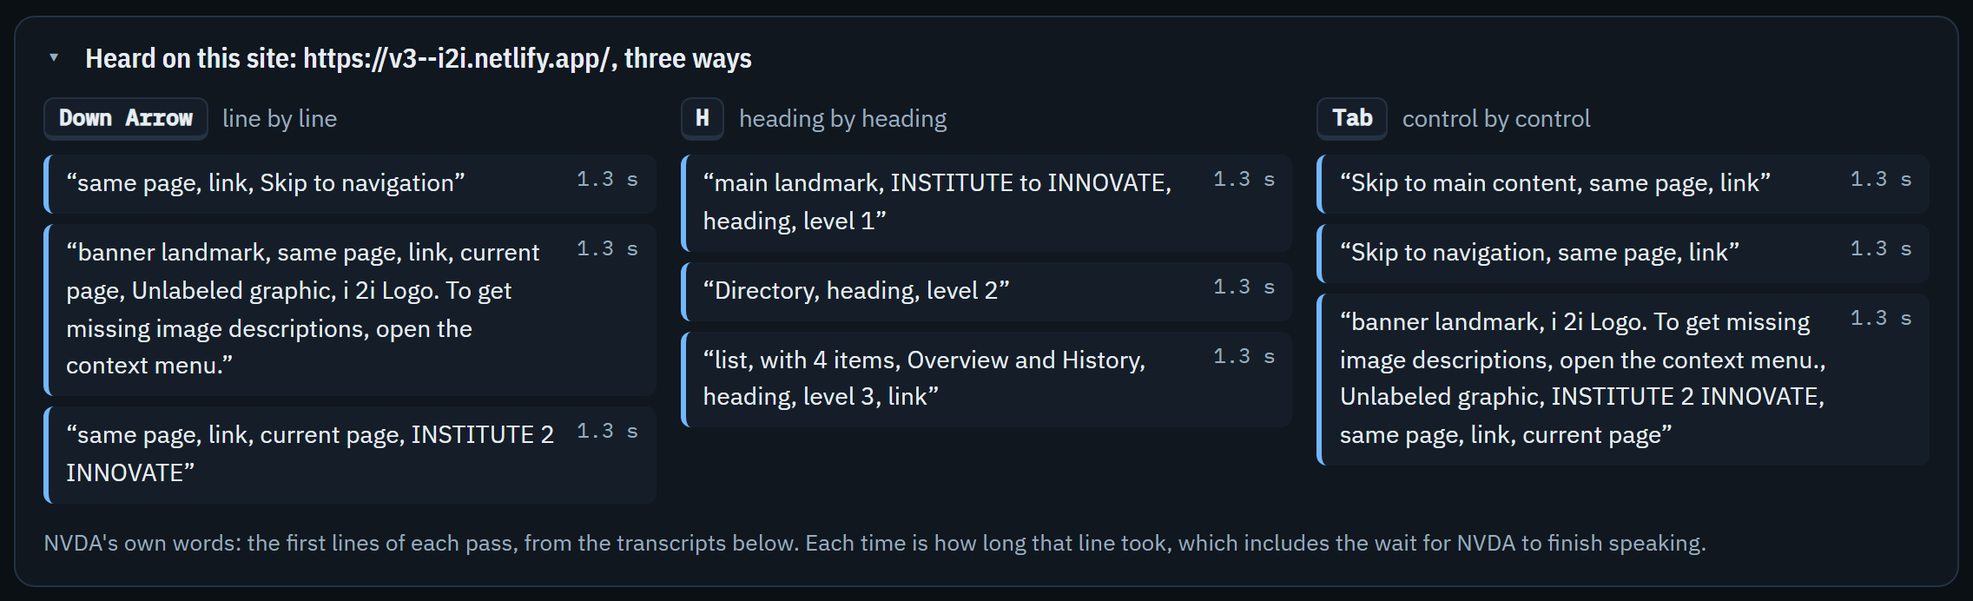
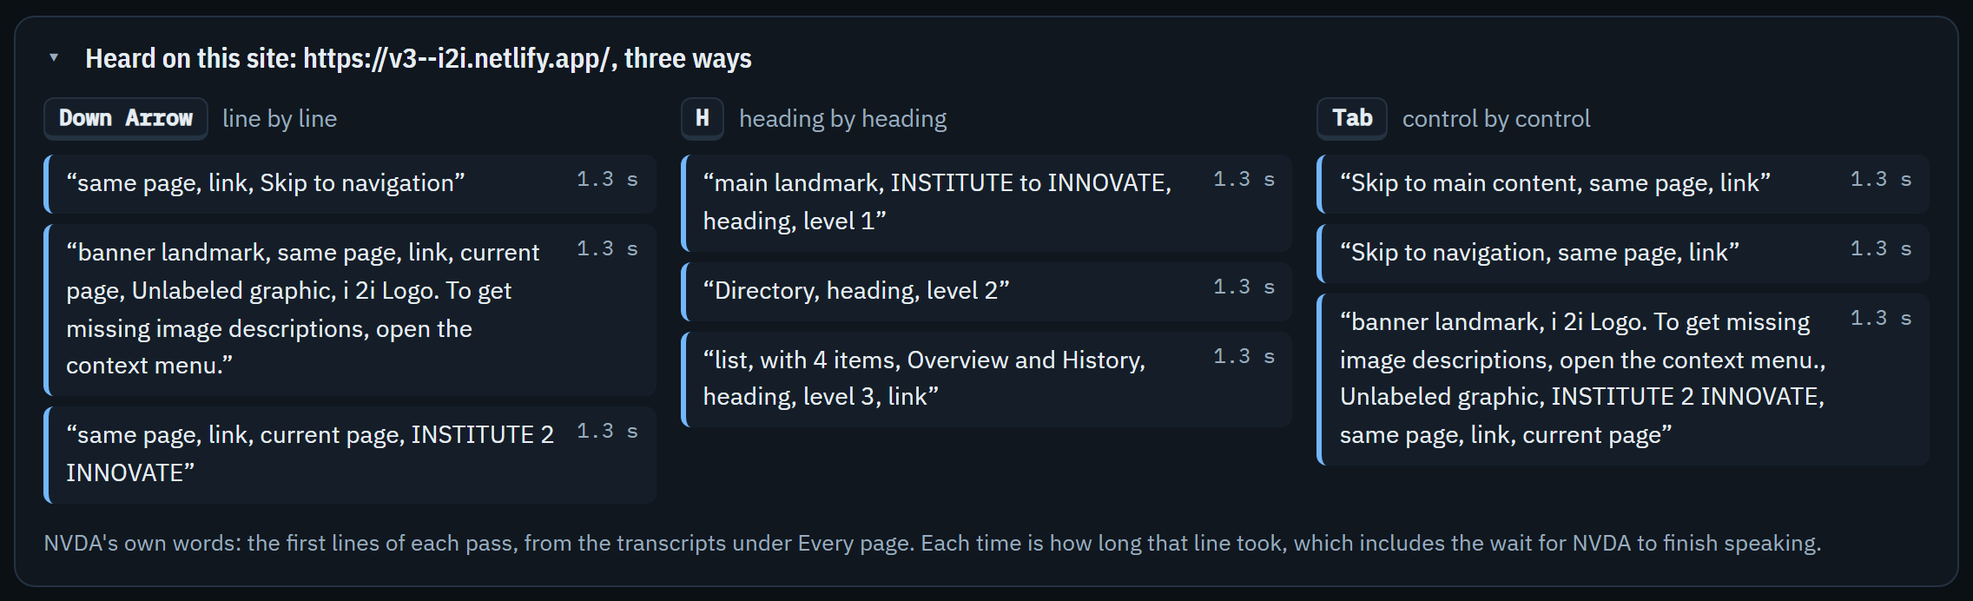
Say where the sample's transcripts are now, and tighten the README's and the spec's words on the verdict and the transcripts

Changed region(s): [[0.375, 0.8801, 0.9375, 0.9408]]

diff --git a/src/share/text.ts b/src/share/text.ts
@@ -132,9 +132,13 @@ export const HOW_TEXT = {
     headings: { key: "H", words: "heading by heading" },
     tab: { key: "Tab", words: "control by control" },
   } satisfies Record<PassName, { key: string; words: string }>,
-  /** Under the sample: what its words are, and what each time is. */
+  /**
+   * Under the sample: what its words are, and what each time is. It names where the transcripts
+   * are by their section's name, not by "above" or "below", which a change in the sections' order
+   * would make false again.
+   */
   heardNote:
-    "NVDA's own words: the first lines of each pass, from the transcripts below. Each time is how long that line took, which includes the wait for NVDA to finish speaking.",
+    "NVDA's own words: the first lines of each pass, from the transcripts under Every page. Each time is how long that line took, which includes the wait for NVDA to finish speaking.",
   /** Said in place of the sample, when the home page has no transcripts to take one from. */
   noSample: "Not recorded: no sample of the home page's lines is available.",
 };

diff --git a/test/share-text.test.ts b/test/share-text.test.ts
@@ -357,6 +357,18 @@ describe("the fixed text", () => {
     expect(PAGES_TEXT.fullTranscript).toBe("The full transcript");
   });
 
+  it("names where the sample's transcripts are by their section, never by above or below", () => {
+    const { HOW_TEXT, PAGES_TEXT } = text;
+
+    // The sample is in the details, which come after the cards, and each page's transcripts are in
+    // its card, under Every page. "Below" was false once the page put the cards first, and the
+    // Word copy has the same order; the section's name stays true wherever the sections go.
+    expect(HOW_TEXT.heardNote).toBe(
+      `NVDA's own words: the first lines of each pass, from the transcripts under ${PAGES_TEXT.title}. Each time is how long that line took, which includes the wait for NVDA to finish speaking.`,
+    );
+    expect(HOW_TEXT.heardNote).not.toMatch(/\b(?:above|below)\b/i);
+  });
+
   it("never names a library as how voicecap began", () => {
     expect(everyString().join("\n")).not.toMatch(/guidepup/i);
   });

diff --git a/docs/superpowers/specs/2026-09-30-shareable-report-design.md b/docs/superpowers/specs/2026-09-30-shareable-report-design.md
@@ -8,7 +8,7 @@ The owner's request: reports detailed enough for a skeptical manager, or a state
 - that each NVDA (or, later, VoiceOver) run really happened as recorded;
 - what the honest results were, failures and interruptions included, with nothing softened or left out.
 
-voicecap is a human review, sped up. The person running it listens as NVDA reads each page, reads the transcripts, and fixes what they find. What voicecap does on its own is press the screen reader's keys, the way a person would, and move from page to page along the sitemap or a list of pages. Working from the list also makes the review more thorough than clicking through a site by hand: every page on the list is accounted for, and none is missed or done twice. So one person can spot-check a large site, zero in on the pages that need attention, or go through a whole small site.
+voicecap is a human review, sped up. The person running it hears NVDA at work, reads the transcripts, and fixes what they find. What voicecap does on its own is press the screen reader's keys, the way a person would, and move from page to page along the sitemap or a list of pages. Working from the list also makes the review more thorough than clicking through a site by hand: every page on the list is accounted for, and none is missed or done twice. So one person can spot-check a large site, zero in on the pages that need attention, or go through a whole small site.
 
 The owner's manager wants two things: an automated check, such as axe or Lighthouse, and a person's listen-through with a real screen reader. voicecap is the listen-through, and the page has to make that plain: every word in it is what NVDA (or VoiceOver) said, and every decision in it is a person's. It must never read as if no person was involved.
 
@@ -37,13 +37,13 @@ The owner asked on 2026-10-07 for the page to put what matters most to a manager
 1. **The top**, as before: the site's canonical name as the headline, "Tested <date and time>", the plain line "How its pages read aloud with NVDA, a free screen reader, tested on <date>.", the line "voicecap took NVDA through every page, pressing its keys the way a person would. Every word shown here is what NVDA said.", then "As of", "Prepared by", "Made with voicecap", the site's address, small, and the two buttons.
 
 2. **At a glance**, for a non-technical manager who reads nothing else. All of it is computed from the records, in plain words, in this order:
-   - **The verdict:** one large line, said in words and an icon, with a color that only repeats them. One rule words it, `verdictOf` (`src/share/verdict.ts`), for the page, its Word copy, and the website's card, from the four counts of the result (`ShareModel.result`: the pages in scope, how many NVDA read, the problems, and the pages they're on). It has three states:
-     - "Nothing needs attention" (✓, green) when no card is left under "What needs attention" and NVDA read every page in scope.
-     - "<n> problem needs attention, on <m> pages" ("problems need" for more than one, "on 1 page" for one; ⚠, amber) when cards are left. It counts every card, as the section, the Word copy, and the website's card do (D1).
-     - Red, with ⚠, when NVDA read fewer pages than are in scope, whether it couldn't read a page or skipped it (D2: the website's card has gone by this rule since 0.12.3). It counts the cards in the same words, and with no card left (voicecap skipped the pages it didn't read, which are on no card) it says "Nothing needs attention on the pages read".
+   - **The verdict:** one large line, said in words and an icon, with a color that only repeats them. One rule words it, `verdictOf` (`src/share/verdict.ts`), for the page, its Word copy, and the website's card, from the four counts of the result (`ShareModel.result`: the pages in scope, how many NVDA read, the problems, and the pages they're on). It has three states, and goes by the first that is true, in this order:
+     - Red, with ⚠, when NVDA read fewer pages than are in scope, whether it couldn't read a page or skipped it (D2: the website's card has gone by this rule since 0.12.3). A page not read makes it red whatever the cards say. It counts the cards in the same words, and with no card left (voicecap skipped the pages it didn't read, which are on no card) it says "Nothing needs attention on the pages read".
+     - "<n> problem needs attention, on <m> pages" ("problems need" for more than one, "on 1 page" for one; ⚠, amber) when NVDA read every page in scope and cards are left. It counts every card, as the section, the Word copy, and the website's card do (D1).
+     - "Nothing needs attention" (✓, green) when NVDA read every page in scope and no card is left under "What needs attention".
 
      The icon is drawn by the page's style, with no alternative text (`content: "✓" / ""`), so a screen reader hears the words alone: an icon in the markup is no text, and fails axe's contrast check. The Word copy has it as the first character of the line.
-   - **The result in one sentence,** leading with the person's review: who ran it, who heard NVDA, who reviewed, and what review found (see "The human review"). It counts no problems (D1). Before, it counted only the cards that come from flags, and the verdict counts every card, so the two could disagree (on the demo, the sentence said "4 problems need attention, on 1 page", and the verdict "5 problems need attention, on 2 pages"). The verdict is the one count. For a run with no review, the sentence is "NVDA read all 32 pages, run by Christopher Schweda." The owner chose this on 2026-10-07.
+   - **The result in one sentence,** leading with the person's review: who ran it, who heard NVDA, who reviewed, and what review found (see "The human review"). It doesn't count the problems that need attention (D1): the verdict does. Before, it counted only the cards that come from flags, and the verdict counts every card, so the two could disagree (on the demo, the sentence said "4 problems need attention, on 1 page", and the verdict "5 problems need attention, on 2 pages"). The verdict is the one count of them. The sentence still says how many pages have an issue found in review, couldn't be read, or were skipped. For a run with no review, the sentence is "NVDA read all 32 pages, run by Christopher Schweda." The owner chose this on 2026-10-07.
    - **The page ring:** a ring chart of the pages in scope, with their number in its middle. Its three parts add up to the pages in scope:
      - "No problems": read, and on no card;
      - "Need attention": read, and on a card;
@@ -65,7 +65,7 @@ The owner asked on 2026-10-07 for the page to put what matters most to a manager
    - its status, in words, and its review's chips ("Reviewed, no issues", "Checked by <name>, <date>: not an issue", and so on);
    - **Heard first:** the first three lines NVDA said on it, in the read pass, word for word, each in curly quotes, as a list a screen reader counts. A page with no transcripts, or whose read transcript can't be read here, has none;
    - its pass counts and its time, and its spoken-line strip;
-   - **the full transcript,** folded, at the card's end: the run its transcripts are from, then the read, headings, and Tab transcripts, word for word, each with its line count, size, and fingerprint. The fingerprint check covers them here (see "Checking the fingerprints in the page"). Every card's fold line reads alike on screen ("The full transcript: read, headings, and Tab transcripts"), so each names its page for a screen reader, in hidden words ("The full transcript of /about/: …"), and each transcript's heading does the same. A page whose transcripts can't be read here has its fold, with the line that says so; a page with no transcripts has no fold.
+   - **the full transcript,** folded, at the card's end: the run its transcripts are from, then a transcript for each pass the run recorded (read, headings, and Tab), word for word, each with its line count, size, and fingerprint. The fingerprint check covers them here (see "Checking the fingerprints in the page"). Every card's fold line reads alike on screen ("The full transcript: read, headings, and Tab transcripts"), so each names its page for a screen reader, in hidden words ("The full transcript of /about/: …"), and each transcript's heading does the same. A page whose transcripts can't be read here has its fold, with the line that says so; a page with no transcripts has no fold.
 
    The appendix of transcripts is gone; this is the one place for each page's words. Over 12 pages, the pages with nothing to note fold behind a line, as before, and each keeps its own transcript fold inside it.
 
@@ -123,7 +123,7 @@ The page:
 - says a person heard NVDA only where the statement says so: "Heard live by <name>" for pages read in a session answered "Yes, the whole time", and "<name> heard part of this session" for "Part of the time";
 - has no count of pages heard live. The owner took it out of the page's numbers and its human-review bar on 2026-10-06: a run started without a terminal can't ask, and a count of 0 read as though no one had heard NVDA. The statement stays in each run's evidence, and the page's chips above;
 - leads with what the person did, never with what they haven't done. What's left appears once, as tasks, under "What's still to do";
-- counts the problems once, in the verdict, never in the sentence (D1): the verdict counts every card of "What needs attention". The sentence keeps who ran it, who heard NVDA, who reviewed, and what review found;
+- counts the problems that need attention once, in the verdict, over every card of "What needs attention" (D1); the sentence doesn't count them. It keeps who ran it, who heard NVDA, who reviewed, and what review found, and still says how many pages have an issue found in review, couldn't be read, or were skipped;
 - shows each count out of its total, so nothing looks complete that isn't.
 
 ## What needs attention: a card for each problem
@@ -320,13 +320,13 @@ A walkthrough file lets anyone repeat a run exactly: an auditor checking the res
 These two sections are the page's only prose not computed from the records, and they make no claim about any run's results. The text lives in one module, `src/share/text.ts`, which both renderers use. The owner reviews it before each release.
 
 **How voicecap works:**
-- **The lead:** automated checkers read a page's code and test it against rules. voicecap takes a real screen reader through each page the way a person would, and saves every word it says. It can spot-check a large site, zero in on the pages that need attention, or go through a whole small site. The person running it listens along, then reads the transcripts and fixes what they find. voicecap presses the keys and turns the pages, so the person can give the listening their full attention.
+- **The lead:** automated checkers read a page's code and test it against rules. voicecap takes a real screen reader through each page the way a person would, and saves every word it says. It can spot-check a large site, zero in on the pages that need attention, or go through a whole small site. The person running it reads the transcripts and fixes what they find. voicecap presses the keys and turns the pages, and NVDA speaks very fast as it goes, so the transcripts are where its words are read.
 - **Six steps,** each with an icon:
   1. **Every page on the list:** from the sitemap, or a list of chosen pages (a CSV file). Each page is read once, in full, or listed with the reason it couldn't be. None is missed or done twice, an easy slip when clicking through a site by hand.
   2. **The real screen reader:** NVDA itself, never a simulation, with a fresh browser for every page.
   3. **Three ways through each page:** the keys a person presses to go line by line, heading by heading, and control by control.
   4. **Every word, and a check on every key:** each key press and everything the screen reader said, in order. Before and after every key press, voicecap checks that the page still has the screen. If it doesn't, the step is thrown out and the page tried again.
-  5. **A person listens, reads, and fixes:** the person running voicecap listens as it reads, and says so when the run ends. Then they read the transcripts, record what they found, and fix it. Flags point to moments worth a second listen.
+  5. **A person reads and fixes:** the person running voicecap hears NVDA at work, and says so when the run ends. NVDA speaks very fast during a run, so the transcripts are where its words are read. The person reads them, records what they found, and fixes it. Flags point to moments worth a closer look.
   6. **A sealed record:** every file gets a fingerprint and each run is sealed, so anyone can check that nothing has changed since.
 - **Heard on this site,** which is computed, not fixed: the first three lines of each pass on the site's home page (or the first page in scope), from the transcripts shown, each with its time.
 - **When to run it,** a bold band after the steps: "When to run voicecap: before the site goes live. And again after a major update. Screen reader users hear the deployed site, so that's the one to listen to." Then four stages, with the second marked:
@@ -449,7 +449,7 @@ In the site's folder of the transcripts home:
   - one paragraph of its title, status, flags, and review, and what each pass captured;
   - a "Heard first" list of the lines NVDA said first;
   - the line that names the run its transcripts come from ("From run 2026-10-06_1134", with its date added for a run before the latest);
-  - each transcript, under a heading of its own that carries the page's address ("Read transcript of /about/, 18 lines"), with its fingerprint and its lines in the fixed-width font. The address is in the heading as the page's hidden words have it for a screen reader: every page has a read, a headings, and a Tab transcript, and a reader going by headings would otherwise meet the same three names again and again. Word can't hide words, so there they are in view.
+  - each transcript, under a heading of its own that carries the page's address ("Read transcript of /about/, 18 lines"), with its fingerprint and its lines in the fixed-width font. The address is in the heading as the page's hidden words have it for a screen reader: a page has a transcript for each pass the run recorded (read, headings, and Tab), and a reader going by headings would otherwise meet the same names again and again. Word can't hide words, so there they are in view.
 - **Its first lines:** the title, then the site's canonical name, then the date and time it was tested and when the copy was made, so a reader never meets an address first (the owner asked on 2026-10-03, and again on 2026-10-04 for canonical names; see "Canonical names").
 - **Nothing is folded:** every section is there in full.
 - **The steps, problems, and story:** How voicecap works has its steps as a numbered table and its sample as a three-column table. Each problem is a table, with its record in the fixed-width font. The story has its text, its timeline as a table, and its six cards as a list.
@@ -622,8 +622,8 @@ A public site the owner can point anyone to, https://voicecap.netlify.app (appro
 
 **The page for managers (0.13.0):**
 - The page's order: the top, At a glance, What needs attention (only with a card), Every page, The details, and the footer; no appendix.
-- The verdict's three states, word for word, with its icon and color (D2): "Nothing needs attention" (✓, green) with no card and every page read; "<n> problem needs attention, on <m> pages" (⚠, amber) with cards left, "problems need" for more than one; and red, with ⚠, when NVDA read fewer pages than are in scope, whether a page couldn't be read or was skipped: the same count of problems, and, with no card, "Nothing needs attention on the pages read". The page's verdict, its Word copy's, and the website's card are one rule.
-- The sentence counts no problems (D1): the verdict is the one count.
+- The verdict's three states, word for word, with its icon and color, and the order it tries them in (D2): red, with ⚠, first, when NVDA read fewer pages than are in scope, whether a page couldn't be read or was skipped, with the cards' count of problems in the same words and, with no card, "Nothing needs attention on the pages read"; then "<n> problem needs attention, on <m> pages" (⚠, amber, "problems need" for more than one) when every page was read and cards are left; then "Nothing needs attention" (✓, green) when every page was read and no card is left. A page not read makes it red with cards or without. The page's verdict, its Word copy's, and the website's card are one rule.
+- The sentence doesn't count the problems that need attention (D1): the verdict is the one count of them. The sentence still says how many pages have an issue found in review, couldn't be read, or were skipped.
 - The page ring: its three parts and their counts from the records, its legend, and its text for a screen reader; the Word copy's table of it.
 - The four big numbers, and "On this page" with its links (no "What needs attention" link without a card).
 - Every page: the lines NVDA said first; the full transcript folded in each card; "Check the fingerprints" covering the transcripts there, and catching a changed character in one.
@@ -650,8 +650,8 @@ A public site the owner can point anyone to, https://voicecap.netlify.app (appro
 4. **0.12.0, What needs attention:** a card for each problem, a review settling flags, and five numbers, from the owner's requests of 2026-10-06. It's built on its own branch from `main` while plan 6c waits after its Task 2, and released before 6c, which then ships later (see item 5). After the release, the i2i v3 report (v3--i2i.netlify.app) is shared again with 0.12.0, with no new run: the cards come from the transcripts already recorded.
 
 5. **0.13.0, the page for managers (plan 9):** the owner's request of 2026-10-07, approved the same day: the most critical things first, the overall result, each page's screenshot, and what NVDA said, with the information further down. It's built on its own branch from `main`, after 0.12.1 and before the review replay (now 0.14.0) and plan 6c (now 0.15.0). The plan made four decisions, which the sections above carry:
-   - **D1,** the verdict is the one count of problems, over every card, and the sentence counts none (the owner chose this on 2026-10-07: "Verdict counts");
-   - **D2,** the verdict is red when NVDA read fewer pages than are in scope, whether a page couldn't be read or was skipped (the website's card's rule since 0.12.3);
+   - **D1,** the verdict is the one count of the problems that need attention, over every card, and the sentence doesn't count them (the owner chose this on 2026-10-07: "Verdict counts");
+   - **D2,** the verdict is red when NVDA read fewer pages than are in scope, whether a page couldn't be read or was skipped, and red comes first, whatever the cards say: then amber for cards left, then green (the website's card's rule since 0.12.3);
    - **D3,** the method line keeps the page's words, "the reading and the deciding" (`summary.second`);
    - **D4,** the Word copy matches the page: the ring's table replaces each page's latest result, and it has no "On this page".
 
@@ -687,7 +687,7 @@ What Guidepup 0.34.0's source shows, read on 2026-10-05 for plan 6:
 - Recording the listener's statement later. It's asked when the session ends, or not at all, since a statement made afterward is weaker evidence.
 - **axe's findings beside voicecap's, as a possible later addition.**
   - axe would run on the same page load as the read pass, before NVDA reads.
-  - Per page, the page would show what both found, what only listening found (such as "click here" links, which pass axe), and what only axe found (such as color contrast), naming each axe rule's WCAG criterion.
+  - Per page, the page would show what both found, what only the listen-through found (such as "click here" links, which pass axe), and what only axe found (such as color contrast), naming each axe rule's WCAG criterion.
   - It would never be a score: axe isn't the answer key, and the two check different things.
   - voicecap's tests already drive axe (`test/helpers/axe.ts`), but runs and reports don't use it.
 - VoiceOver's evidence, which comes with the VoiceOver driver, in the same layout.

diff --git a/README.md b/README.md
@@ -874,7 +874,7 @@ With `--sample N`, voicecap drafts a sample for you to curate: N pages per URL p
 
 voicecap takes NVDA through each page three ways: line by line (Down Arrow), heading by heading (H), and control by control (Tab). The report's "Heard on this site" fold, in its details, shows the first three lines NVDA said in each way on the home page of the new i2i site, and how long each line took: 1.3 seconds. The same lines are in text, under [How voicecap works](#how-voicecap-works). Each page's card shows the first three lines of its own read pass, under "Heard first" (see [The shareable page](#the-shareable-page)).
 
-![The "Heard on this site" fold of the i2i report, opened: "Heard on this site: https://v3--i2i.netlify.app/, three ways". Three columns, one for each way NVDA goes through the page (Down Arrow, line by line; H, heading by heading; Tab, control by control), each with its first three lines on the home page, in quotes, and how long each took, 1.3 seconds. In two of the lines, NVDA says "Unlabeled graphic" for the logo. Under them, a line that says what the words and the times are.](https://raw.githubusercontent.com/ICJIA/voicecap/main/assets/screenshots/report-heard.png)
+![The "Heard on this site" fold of the i2i report, opened: "Heard on this site: https://v3--i2i.netlify.app/, three ways". Three columns, one for each way NVDA goes through the page (Down Arrow, line by line; H, heading by heading; Tab, control by control), each with its first three lines on the home page, in quotes, and how long each took, 1.3 seconds. In two of the lines, NVDA says "Unlabeled graphic" for the logo. Under them, a line that says what the words and the times are: "NVDA's own words: the first lines of each pass, from the transcripts under Every page. Each time is how long that line took, which includes the wait for NVDA to finish speaking."](https://raw.githubusercontent.com/ICJIA/voicecap/main/assets/screenshots/report-heard.png)
 
 <details>
 <summary>How each page is loaded, and how voicecap captures everything NVDA says</summary>
@@ -1311,7 +1311,7 @@ voicecap writes it whenever it rewrites the site's `report.html`: when a run com
 Its sections, in order:
 
 - **At a glance**: what a manager needs first, all of it computed from the records, in this order:
-  - **The verdict:** one large line, in words and a sign that only repeats them: `Nothing needs attention`, after a ✓ in green, when no card is left under "What needs attention"; `1 problem needs attention, on 32 pages`, after a ⚠ in amber, when some are; and, in red, after the same ⚠, when NVDA read fewer pages than are in scope, whether it couldn't read a page or skipped it. In red it counts the problems in the same words, and with no card left it says `Nothing needs attention on the pages read`. The verdict counts every card of "What needs attention", as that section, the Word copy, and the website's card do. The sign is drawn by the page's style, so a screen reader hears the words alone.
+  - **The verdict:** one large line, in words and a sign that only repeats them. It goes by the first of these that is true: in red, after a ⚠, when NVDA read fewer pages than are in scope, whether it couldn't read a page or skipped it; in amber, after a ⚠, when every page was read and some cards are left, `1 problem needs attention, on 32 pages`; and in green, after a ✓, when every page was read and no card is left, `Nothing needs attention`. Red counts the problems in the same words, and with no card left it says `Nothing needs attention on the pages read`. The verdict counts every card of "What needs attention", as that section, the Word copy, and the website's card do. The sign is drawn by the page's style, so a screen reader hears the words alone.
   - **The result in one sentence,** which leads with the person's review ("NVDA read all 32 pages, run by Christopher Schweda."). It doesn't count the problems that need attention: the verdict does.
   - **The ring of the pages:** a ring chart of the pages in scope, with their number in its middle, in three parts: "No problems" (read, and on no card), "Need attention" (read, and on a card), and "Not read" (no transcripts). A legend gives each part's words and its pages, a part with none included, which a screen reader hears as a list. When every page is in one part, the ring is whole.
   - **Four big numbers:** the pages NVDA read, out of those in scope; the problems to fix, which is the number of cards; the lines NVDA spoke; and NVDA time.
@@ -1324,7 +1324,7 @@ Its sections, in order:
   - **Alt text that's there, and still read as "Unlabeled graphic":** Chrome splits an image's alt text at spaces, punctuation, and digits, drops words of one or two letters and common words such as "logo" and "image", and treats the image as having no name when fewer than three letters are left. The card says so, and says NVDA is reading what Chrome reports (Chromium's source, `ax_image_annotator.cc` and `ax_image_stopwords.cc`, checked 6 October 2026).
   - **A fix comes from what NVDA said, never from the page's code:** voicecap keeps no page's HTML. A card's fix is the usual fix for the case NVDA's words show, so it's a suggestion, and the person reviewing decides whether it fits.
   - **What clears a problem:** a card is gone when no page is left on it. A flag clears for a page when a later run of the page doesn't raise it, or when the page is marked "Reviewed, no issues" after the run that raised it (see [Reviews: the audit trail](#reviews-the-audit-trail)); it comes back if the page's transcripts change after that review. A page that couldn't be read, or whose read stopped before the page's end, clears only when a later run reads it to its end: a review doesn't clear it. An issue clears when it's marked "Fixed". With no card left, the section isn't there: At a glance's verdict says "Nothing needs attention", and its links leave the section out. When some pages were skipped, which are on no card and weren't read, the verdict says "Nothing needs attention on the pages read", in red, and the sentence under it says how many were skipped.
-- **Every page**: a card for each page, in the latest run's order. A card has the page's screenshot, its number and address, its title as the browser reported it, and chips for its result, its flags, and the person's review. Under them is "Heard first": the first three lines NVDA said as it read the page, in quotes, word for word. Then come what each pass captured (the lines read, the headings, the Tab stops, and the time), a bar for each line NVDA spoke in the read pass, and, last, "The full transcript", a fold that starts shut: the page's read, headings, and Tab transcripts, word for word, each with its line count, size, and fingerprint. Every card's fold reads alike on screen, so each names its page for a screen reader alone ("The full transcript of /privacy/: read, headings, and Tab transcripts"). A page with no screenshot says why where the picture would be (its run was made before 0.11.0, say, or the browser couldn't take one). A screenshot that's missing, or isn't the file its run recorded, isn't shown, and the page says so. A page with no transcripts, one that was never read, say, has no "Heard first" and no fold, and a page whose transcripts can't be read here has its fold, with a line that says so. With more than 12 pages, the cards with nothing to note fold behind one line, each still holding its own transcript fold, and the pages that need attention always show. Each page's words are in its card, and "Check the fingerprints" checks them there.
+- **Every page**: a card for each page, in the latest run's order. A card has the page's screenshot, its number and address, its title as the browser reported it, and chips for its result, its flags, and the person's review. Under them is "Heard first": the first three lines NVDA said as it read the page, in quotes, word for word. Then come what each pass captured (the lines read, the headings, the Tab stops, and the time), a bar for each line NVDA spoke in the read pass, and, last, "The full transcript", a fold that starts shut: a transcript for each pass the run recorded (read, headings, and Tab), word for word, each with its line count, size, and fingerprint. Every card's fold reads alike on screen, so each names its page for a screen reader alone ("The full transcript of /privacy/: read, headings, and Tab transcripts"). A page with no screenshot says why where the picture would be (its run was made before 0.11.0, say, or the browser couldn't take one). A screenshot that's missing, or isn't the file its run recorded, isn't shown, and the page says so. A page with no transcripts, one that was never read, say, has no "Heard first" and no fold, and a page whose transcripts can't be read here has its fold, with a line that says so. With more than 12 pages, the cards with nothing to note fold behind one line, each still holding its own transcript fold, and the pages that need attention always show. Each page's words are in its card, and "Check the fingerprints" checks them there.
 
   Four of the i2i report's 32 page cards, for /privacy/, /program-approach/, /program-overview/, and /resources/:
 
@@ -1400,7 +1400,7 @@ An address is kept as its root: a scheme, a host, and a path that ends in `/`. `
 
 - **A title, the site's name, and when it was tested first.** It opens with "Screen reader test results", then the site's canonical name, then the line `report.siteName` sets, when there is one, then "Tested 29 September 2026, 14:02. This copy was made 30 September 2026." Then come how the pages were read and who prepared it, and the site's address last. A reader meets what the document is, which site it's about, and when it was tested before any web address.
 - **The same sections, in the same order.** The first page has the top and "At a glance": the verdict, with its sign (✓ or ⚠) before it, the sentence, the ring as a table ("Part" and "Pages", a row for each of its three parts), the four big numbers as a table ("Number" and "What it counts"), and the line on the method. Then come "What needs attention" (only when there's a card), "Every page", and "The details, for reviewers and auditors", and last a heading, "About this report", over the footer's lines: what voicecap is, when the report was made, and the names of the file and of its web page. The page's footer names its Word copy the same way, so each copy tells its reader where the other is. The page's links, "On this page", aren't in it: its headings, and Word's navigation pane, do that.
-- **Every page, with its transcripts.** Each page has a heading with its number and address (or its label, then its address), its screenshot, one paragraph of its title, status, flags, and review, and what each pass captured, a "Heard first" list of the first three lines NVDA said, and each of its three transcripts under a heading of its own that has the page's address in it ("Read transcript of /about/, 18 lines"), then the transcript's fingerprint and its lines, word for word, in the fixed-width font. The address is in each heading because every page has a read, a headings, and a Tab transcript, and someone going by headings would meet the same three names again and again.
+- **Every page, with its transcripts.** Each page has a heading with its number and address (or its label, then its address), its screenshot, one paragraph of its title, status, flags, and review, and what each pass captured, a "Heard first" list of the first three lines NVDA said, and each of its transcripts under a heading of its own that has the page's address in it ("Read transcript of /about/, 18 lines"), then the transcript's fingerprint and its lines, word for word, in the fixed-width font. The address is in each heading because a page has a transcript for each pass the run recorded (read, headings, and Tab), and someone going by headings would meet the same names again and again.
 - **Nothing is folded.** What the page keeps behind a fold is open in the Word copy, written out in full.
 - **Tables where the page has charts.** The page's ring is a table of its three parts and their pages, its four big numbers are a table, and the details' two bars (flags by rule, and the human review) are tables of counts and shares, with the same numbers in them. Each session's chart, minute by minute, is the sentences that sum it up and a table of every event.
 - **Screenshots are pictures.** Each page's screenshot is under its heading in "Every page", 400 pixels wide, with its alt text, as on the page. A page with no screenshot has the line that says why, as on the page.

diff --git a/CHANGELOG.md b/CHANGELOG.md
@@ -7,14 +7,14 @@ All notable changes to voicecap are recorded here. The format follows [Keep a Ch
 ### Changed
 
 - **The shareable page has a new order, and its Word copy follows it,** so a manager meets the result, each page's screenshot, and what NVDA said first, and the evidence last. The summary came first, with five numbers and four panels; then the sections on what needed attention, how voicecap works, every page, what changed, the problems, what the results cover, the evidence, and how voicecap came to be; and last an appendix of every transcript. Now: the top; "At a glance"; "What needs attention", when there's a card; "Every page"; "The details, for reviewers and auditors"; and the footer. The README's "The shareable page" describes each part.
-  - **"At a glance" opens the page, with a verdict in words and a sign:** `Nothing needs attention` (✓, in green); `1 problem needs attention, on 32 pages` (⚠, in amber); or the same words in red when NVDA read fewer pages than are in scope, whether it couldn't read a page or skipped it (with no card then, `Nothing needs attention on the pages read`). The sign is drawn by the page's style, so a screen reader hears the words alone. One rule words the verdict for the page, its Word copy, and the website's card, so they can't disagree.
+  - **"At a glance" opens the page, with a verdict in words and a sign.** It goes by the first of these that is true: red (⚠) when NVDA read fewer pages than are in scope, whether it couldn't read a page or skipped it, counting the problems in the same words (with no card left then, `Nothing needs attention on the pages read`); amber (⚠) when every page was read and some cards are left, `1 problem needs attention, on 32 pages`; and green (✓) when every page was read and no card is left, `Nothing needs attention`. The sign is drawn by the page's style, so a screen reader hears the words alone. One rule words the verdict for the page, its Word copy, and the website's card, so they can't disagree.
   - **Under the verdict:** the result in one sentence; a ring of the pages in scope, in three parts, "No problems", "Need attention", and "Not read", with a legend that a screen reader hears as a list; four big numbers; the line on what voicecap does and what the person running it does; and "On this page", with links to the sections. A site where no run counts has no verdict, ring, or numbers: only the sentence, which says why, the line, and the links.
   - **The numbers are four, not five:** the pages NVDA read, out of those in scope; the problems to fix; the lines NVDA spoke; and NVDA time. The count of pages with flags is gone, and the problems to fix is new.
-  - **The sentence counts no problems, and the verdict does.** The sentence counted only the problems that come from flags ("1 problem needs attention, on 32 pages."), and the verdict counts every card, as "What needs attention" does, so on the demo the two would have said 4 and 5. The sentence keeps who ran it, who heard NVDA, who reviewed, and what review found ("NVDA read all 32 pages, run by Christopher Schweda."), and the verdict is the one count.
+  - **The sentence doesn't count the problems that need attention; the verdict does.** The sentence counted only the problems that come from flags ("1 problem needs attention, on 32 pages."), and the verdict counts every card, as "What needs attention" does, so on the demo the two would have said 4 and 5. The sentence keeps who ran it, who heard NVDA, who reviewed, and what review found ("NVDA read all 32 pages, run by Christopher Schweda."), and the verdict is the one count.
   - **"What needs attention" is there only when there's a card.** With none, the verdict says so, and "On this page" has no link to it. The "Nothing needs attention: every page was read, and every flag was fixed or checked by a person." lines, in the section and in the summary's panel, are gone.
-  - **Each page's first lines and its full transcript are in its card, in place of the appendix.** A card shows "Heard first", the first three lines NVDA said as it read the page, word for word, in quotes. Its last part is a closed fold, "The full transcript", with the read, headings, and Tab transcripts, each with its line count, size, and fingerprint; "Check the fingerprints" checks them there. A screen reader hears each fold's line with its page's address ("The full transcript of /about/: read, headings, and Tab transcripts"), so no two sound alike. With more than 12 pages, the cards with nothing to note still fold behind one line, each holding its own transcript fold.
+  - **Each page's first lines and its full transcript are in its card, in place of the appendix.** A card shows "Heard first", the first three lines NVDA said as it read the page, word for word, in quotes. Its last part is a closed fold, "The full transcript", with a transcript for each pass the run recorded (read, headings, and Tab), each with its line count, size, and fingerprint; "Check the fingerprints" checks them there. A screen reader hears each fold's line with its page's address ("The full transcript of /about/: read, headings, and Tab transcripts"), so no two sound alike. With more than 12 pages, the cards with nothing to note still fold behind one line, each holding its own transcript fold.
   - **"The details, for reviewers and auditors" comes last.** Its line says what's in it, "How the test was run, what it covered, and the evidence behind it.", and each part has a heading of its own: what's still to do, how complete the test was, when and how, what changed since the last run, problems during the runs, what these results cover, flags by rule, the human review, the evidence behind these results, how voicecap works, and how voicecap came to be. Three of the summary's panels and two of its bars are parts of it (its panel on what needs attention is the verdict and the section, and its bar of each page's latest result is the ring). A site where no run counts has the six parts that aren't counts.
-  - **The Word copy has the same order.** Its first page has the top and "At a glance": the verdict, with its sign before it; the sentence; the ring as a table ("Part" and "Pages"); the four numbers as a table ("Number" and "What it counts"); and the line on what each does. Each page under "Every page" has a heading, its screenshot, one paragraph, a "Heard first" list, and its three transcripts, each under a heading that carries the page's address ("Read transcript of /about/, 18 lines"). Its headings go down to level 4. It has no appendix, no table of every page, no "On this page", and no table of each page's latest result: the ring's table takes its place.
+  - **The Word copy has the same order.** Its first page has the top and "At a glance": the verdict, with its sign before it; the sentence; the ring as a table ("Part" and "Pages"); the four numbers as a table ("Number" and "What it counts"); and the line on what each does. Each page under "Every page" has a heading, its screenshot, one paragraph, a "Heard first" list, and each of its transcripts, under a heading that carries the page's address ("Read transcript of /about/, 18 lines"). Its headings go down to level 4. It has no appendix, no table of every page, no "On this page", and no table of each page's latest result: the ring's table takes its place.
   - **A page already shared is as it was:** only pages made from now on change. Share a site again to give it the new page; no new run is needed.
 - **The README's pictures are drawn again** from the i2i v3 run: the top now shows "At a glance", the "Heard on this site" shot is its fold, opened, in the details, and the page cards show "Heard first" and the closed fold of the transcript.
 
